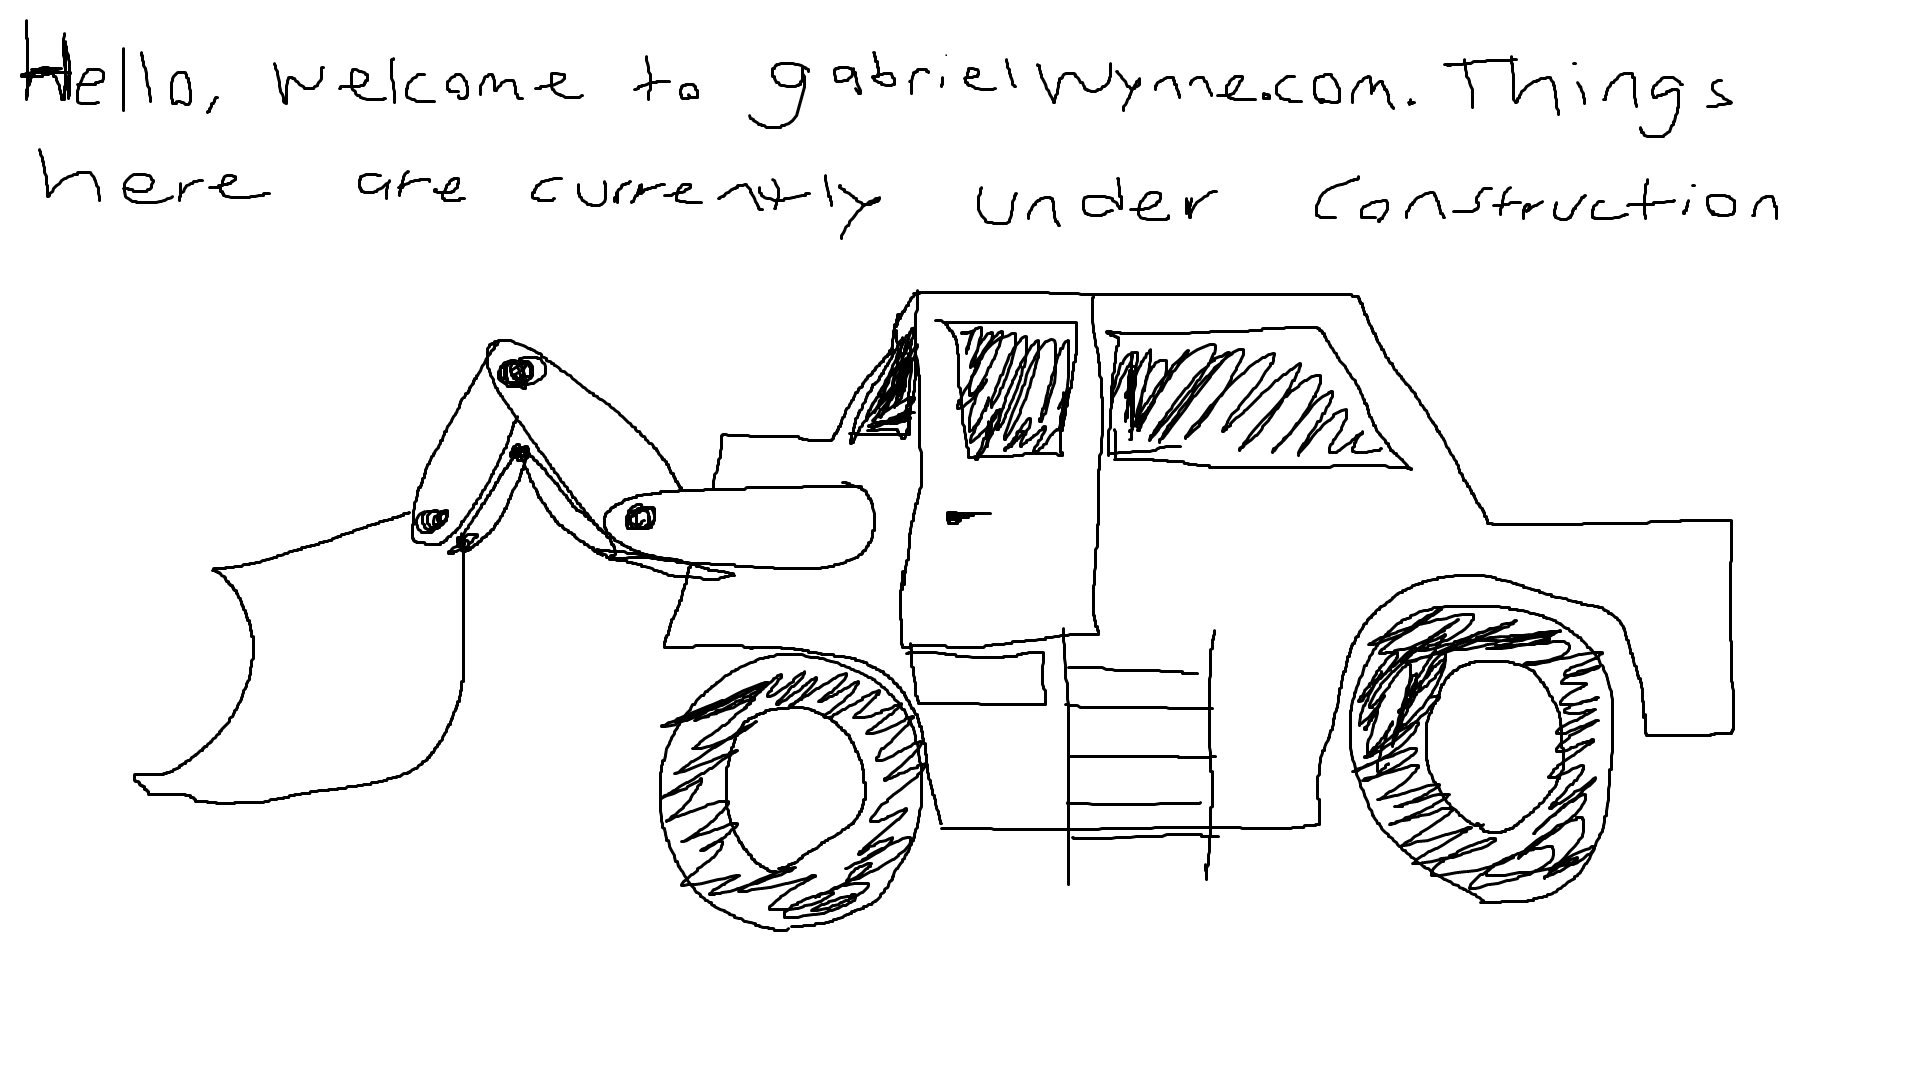
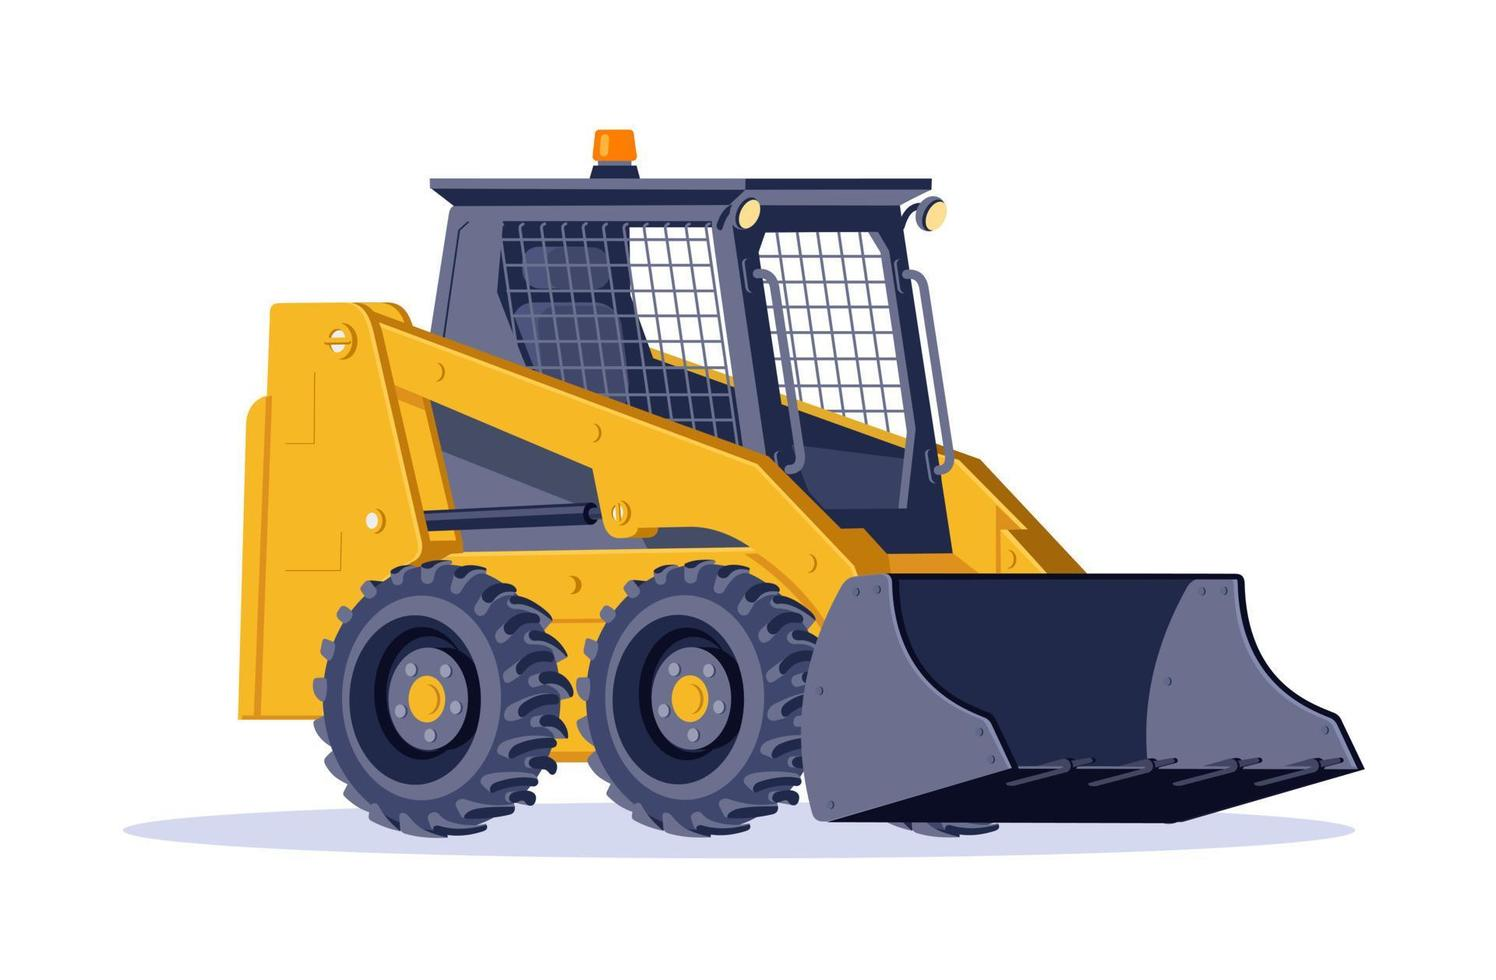
refined bulldozing

diff --git a/index.html b/index.html
@@ -23,8 +23,7 @@
 </head>
 
 <body>
-
-  <!-- Add your site or application content here -->
+  <p> Hello, welcome to gabrielwynne.com. Things here are currently under construction.</p>
   <img src = "bulldozer.png" alt = "bulldozer">
   <script src="js/app.js"></script>
 
